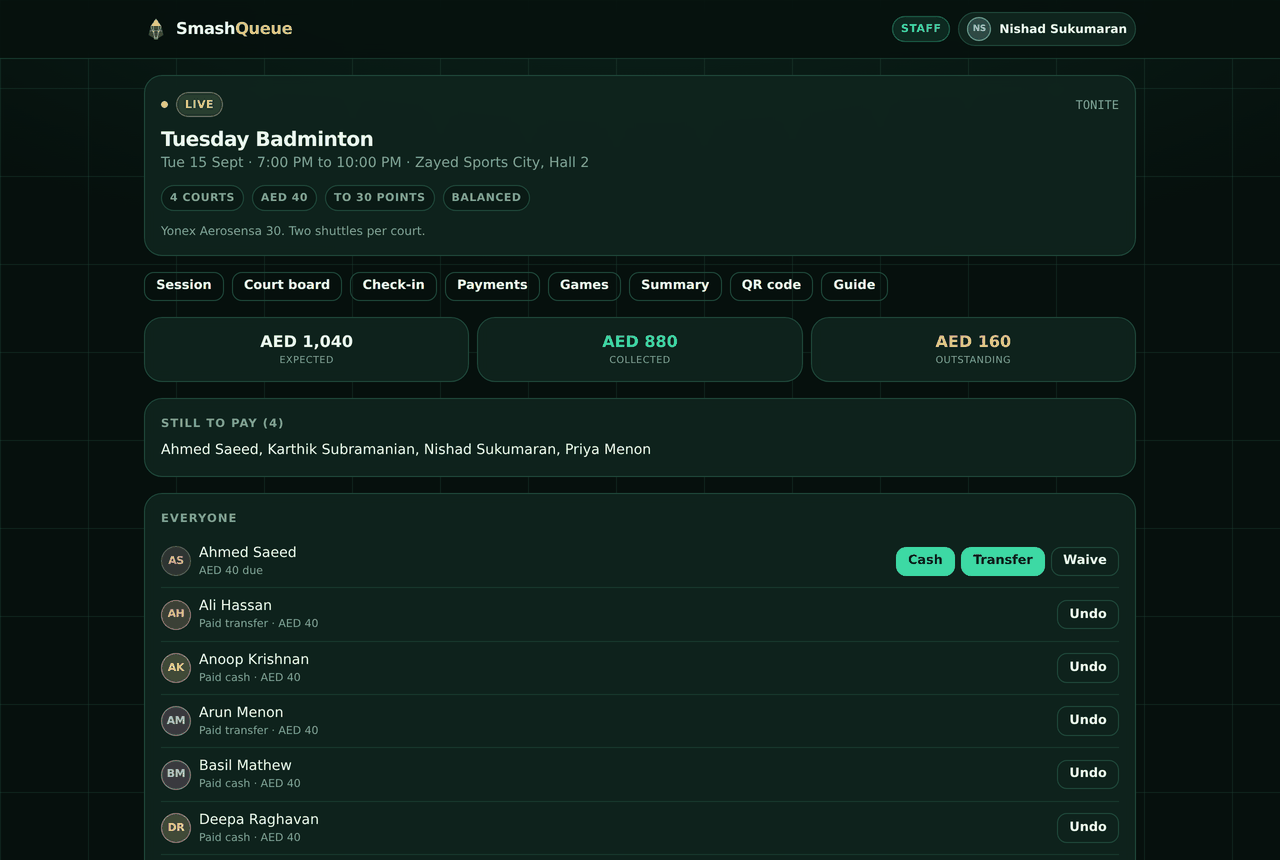
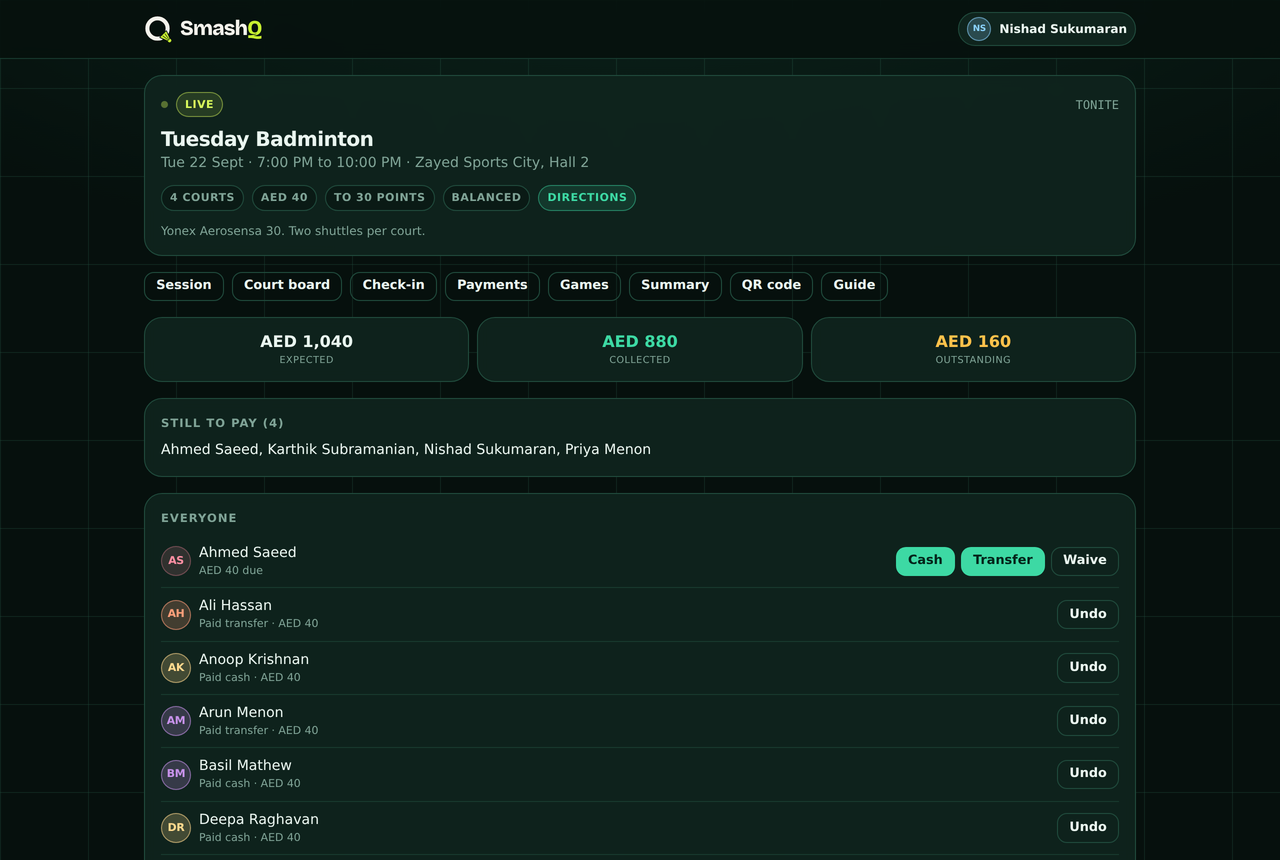
v1.1.0: README with the new brand, fresh screenshots, what's new
- New banner and social preview with the Shuttle Q logo.
- All screenshots retaken on the current app; new profile, communities
  and platform screens.
- README covers accounts, communities, notifications, short codes, PIN
  control and the brand kit. Version 1.1.0.

Claude-Session: https://claude.ai/code/session_015Ug1Y9LMyjPP6xH98pxx1T

diff --git a/src/lib/brand.ts b/src/lib/brand.ts
@@ -1,7 +1,7 @@
 /** Single source of truth for product identity, release channel and support. */
 
 export const APP_NAME = "Smash Queue";
-export const APP_VERSION = "1.0.0";
+export const APP_VERSION = "1.1.0";
 /** null on a stable release; a label like "Beta" or "RC" on a prerelease. */
 export const RELEASE_CHANNEL: string | null = null;
 

diff --git a/README.md b/README.md
@@ -1,10 +1,10 @@
 <div align="center">
 
-<img src="docs/images/banner.png" alt="Smash Queue — book, check in, queue, play" width="100%">
+<img src="docs/images/banner.png" alt="SmashQ — book, check in, queue, play" width="100%">
 
 <br>
 
-[![Version](https://img.shields.io/badge/version-1.0.0-D7F75B?style=for-the-badge&labelColor=0A1A15)](https://github.com/nishadsukumaran/smash-queue/releases)
+[![Version](https://img.shields.io/badge/version-1.1.0-C8F031?style=for-the-badge&labelColor=0A1A15)](https://github.com/nishadsukumaran/smash-queue/releases)
 [![Live](https://img.shields.io/badge/live-smashq.aiopsgroup.ai-3DD9A4?style=for-the-badge&labelColor=0A1A15)](https://smashq.aiopsgroup.ai)
 [![Tests](https://img.shields.io/badge/tests-38%20passing-3DD9A4?style=for-the-badge&labelColor=0A1A15)](#prove-it-yourself)
 [![Fairness](https://img.shields.io/badge/games%20spread-%E2%89%A4%201-D7F75B?style=for-the-badge&labelColor=0A1A15)](#the-queue-engine)
@@ -18,9 +18,10 @@
 [![Neon](https://img.shields.io/badge/Neon%20Postgres-00E599?style=flat-square&logo=postgresql&logoColor=black)](https://neon.tech)
 [![Vercel](https://img.shields.io/badge/Vercel%20fra1-000000?style=flat-square&logo=vercel&logoColor=white)](https://vercel.com)
 
-**A mobile-first badminton session manager for real WhatsApp groups.**<br>
-Fair rotation across multiple courts, QR check-in, payment tracking, and a session summary<br>
-that tells you whether the night was actually fair — not just whether it felt fair.
+**SmashQ — a mobile-first badminton app for real communities.**<br>
+Accounts for every player, communities their owners actually own, fair rotation across courts,<br>
+QR check-in, push notifications, payments, and a session summary that tells you whether<br>
+the night was actually fair — not just whether it felt fair.
 
 <sub>Built by **[AIOps](https://aiops.ae)** · support **hello@aiops.ae** · built to PRD v1.0</sub>
 
@@ -31,7 +32,7 @@ that tells you whether the night was actually fair — not just whether it felt 
 ## The problem, in one line
 
 One person with a whiteboard decides who plays next, and by 9pm half the hall thinks they
-have been skipped. Smash Queue replaces the whiteboard with a queue engine that can be
+have been skipped. SmashQ (Smash Queue) replaces the whiteboard with a queue engine that can be
 audited, and gives everyone a phone screen that answers *"when am I next?"* without asking.
 
 <table>
@@ -39,8 +40,9 @@ audited, and gives everyone a phone screen that answers *"when am I next?"* with
 <td width="33%" valign="top">
 
 ### 🏸 For players
-Tap your name, join the session, scan the QR at the door. Your phone then shows games
-played, minutes waiting, and roughly how far off your next game is.
+Sign in once with a 4-digit email code, then just a PIN. Book, scan the QR at the door, and
+your phone shows games played, minutes waiting and your place in the queue, and buzzes
+when you're up.
 
 </td>
 <td width="33%" valign="top">
@@ -52,13 +54,30 @@ line explaining why. Start. Finish. Next.
 </td>
 <td width="33%" valign="top">
 
-### 💰 For organizers
-Sessions, members, venues, fees. Expected vs collected vs outstanding, minus court hire and
-shuttles, settled before everyone leaves. Behind an account, not a PIN.
+### 💰 For owners and organizers
+Your community is yours: members, sessions, venues, fees, invitations. Expected vs collected
+vs outstanding, settled before everyone leaves. The platform can't see in or take over.
 
 </td>
 </tr>
 </table>
+
+---
+
+## New in v1.1
+
+| | |
+| :--- | :--- |
+| 🎨 **New brand** | The Shuttle Q mark and SmashQ wordmark, in the app and as a full kit in [`docs/brand`](docs/brand) |
+| 👤 **Accounts for everyone** | Any player registers with an email code; every account gets a player number (#1001 on) and a phone PIN |
+| 🏘 **Owner-run communities** | Players ask for a community, the platform approves, the requester owns it. Public or private, open, approval or invite-only |
+| 🔔 **Push notifications** | Put on court, waitlist spot, community notices, invitations, and a reminder on the day. One tap to switch on |
+| 🔑 **Short codes, safely** | 4-digit sign-in codes and 4-character invite codes, with daily and hourly guess limits behind them |
+| 🛡 **PIN control** | Owners can switch the shared coordinator PIN off; ten wrong guesses in an hour lock it |
+| 🏠 **New home screen** | Live court card, "you tonight", upcoming sessions, notices and recent fairness at a glance |
+| 🐛 **Fixes** | Live board crash, iPhone status-bar overlap in the home-screen app, honest counts for players who leave early |
+
+Full notes: [releases](https://github.com/nishadsukumaran/smash-queue/releases).
 
 ---
 
@@ -82,7 +101,7 @@ shuttles, settled before everyone leaves. Behind an account, not a PIN.
 
 <img src="docs/images/status-mobile.png" alt="Player status on a phone" width="64%">
 
-<sub>Games, wait, position. No signup, no password.</sub>
+<sub>Games, wait, position, and a buzz when you're up.</sub>
 
 </td>
 <td width="50%" valign="top" align="center">
@@ -115,16 +134,41 @@ shuttles, settled before everyone leaves. Behind an account, not a PIN.
 
 </td>
 </tr>
+<tr>
+<td width="50%" valign="top" align="center">
+
+**Your profile — every community in one place**
+
+<img src="docs/images/me-mobile.png" alt="Player profile with player number and communities" width="64%">
+
+<sub>Player number, form, per-community rating, notifications.</sub>
+
+</td>
+<td width="50%" valign="top" align="center">
+
+**Communities — find one, or join with a code**
+
+<img src="docs/images/communities-mobile.png" alt="Community directory and join-by-code" width="64%">
+
+<sub>Public communities, the 4-character code box, and "start your own".</sub>
+
+</td>
+</tr>
 </table>
 
 <details>
-<summary><b>More screens</b> — landing page and the in-app guide</summary>
+<summary><b>More screens</b> — home, platform console and the in-app guide</summary>
 <br>
 
-| Landing page | In-app user guide |
+| Home | Platform console |
 | :---: | :---: |
-| <img src="docs/images/home.png" alt="Landing page" width="100%"> | <img src="docs/images/guide.png" alt="In-app guide" width="100%"> |
-| Live session, upcoming sessions, booking state | The full guide ships inside the app at `/guide` |
+| <img src="docs/images/home.png" alt="Home screen" width="100%"> | <img src="docs/images/hq.png" alt="Platform console" width="100%"> |
+| Live court card, you tonight, upcoming, notices | Approve or start communities. Counts only, no way inside |
+
+| In-app user guide |
+| :---: |
+| <img src="docs/images/guide.png" alt="In-app guide" width="60%"> |
+| The full guide ships inside the app at `/guide` |
 
 </details>
 
@@ -189,7 +233,8 @@ npm run dev                    # http://localhost:3000
 ```
 
 `npm run setup` seeds **30 players, 6 sessions and ~160 played games**, so every screen has
-something real in it. Start at `/who` and tap a name — players never sign up or sign in.
+something real in it. The demo players have no accounts yet: tap a name at `/who` to act as
+one, or sign in at `/signin` with any address to register a new player.
 
 For the organizer screens, go to `/signin` as `organizer@example.com`. Without a
 `RESEND_API_KEY` the development build prints the code and link straight onto the page, so
@@ -207,6 +252,9 @@ pretend it sent something.
 | ⚙ Organizer | `/admin` | Sessions, members, venues, money |
 | 📖 User guide | `/guide` | The non-technical guide, in-app |
 | 🔐 Staff sign-in | `/signin` | Emails a code and a link |
+| 🏘 Communities | `/communities` | Directory, join with a code, start your own |
+| 👤 Your profile | `/me` | Player number, communities, PIN, notifications |
+| 🛰 Platform | `/hq` | Community requests and totals (demo organizer is platform admin) |
 | 🔑 **Staff PIN** | — | **`1234`** (demo seed only) |
 | ✉ **Demo organizer** | — | **`organizer@example.com`** — with no mail provider set, dev prints the code on screen |
 
@@ -298,9 +346,9 @@ Everything in PRD §31 (MVP scope):
 
 | Area | Shipped |
 | :--- | :--- |
-| **Identity** | Players: cookie per phone, no signup, no password. Staff: magic-link accounts, several sign-in addresses per person |
-| **Access** | Session PIN for the court board, accounts only for anything spanning sessions |
-| **Self sign-up** | From the session link, with a duplicate-name guard and an organizer kill switch |
+| **Accounts** | Email code or link to register, player numbers, phone PIN, several sign-in addresses per person, name lock once registered |
+| **Communities** | Many per deployment, owner-run, public or private, join policies, invitations by number, email or link, per-community ratings |
+| **Access** | Roles from membership only. Session PIN for the court board, owner can switch it off |
 | **Sessions** | Shareable code, courts, capacity, fee, notes, game type, per-session weights |
 | **Booking** | Book, cancel, capacity limit, waitlist with automatic promotion and renumbering |
 | **Check-in** | Signed QR (24h expiry, session-scoped), plus manual and walk-in |
@@ -312,12 +360,9 @@ Everything in PRD §31 (MVP scope):
 | **Stats** | Player history, personal stats, doubles Elo leaderboard |
 | **Audit** | Silent coordinator override log |
 | **Schema** | Committed migrations, with baselining for databases built before them |
+| **Notifications** | Web Push: put on court, waitlist spot, notices, invitations, day-of reminder. iPhone needs the home-screen app |
 | **Delivery** | Installable PWA, no external CDN or font dependencies |
 
-> **Notifications:** phones get a push when they're put on court, when a waitlist spot opens,
-> when their community posts a notice or invites them, and on the morning of a session they booked.
-> Android works in the browser; iPhone needs the app added to the home screen first.
->
 > **Deliberately Phase 2:** WhatsApp, online payments, tournament mode, recurring sessions.
 
 ---
@@ -418,14 +463,17 @@ is the same failure the duplicate-name guard exists to stop.
 
 ```
 src/
-├── db/            schema.ts (18 tables, Drizzle) · migrate.ts · seed.ts
+├── db/            schema.ts (26 tables, Drizzle) · migrate.ts · seed.ts
 │                  bootstrap.ts · grant-admin.ts
 ├── lib/
 │   ├── queue-engine.ts   the matchmaking engine — pure, no I/O
 │   ├── fairness.ts       fairness score + doubles Elo with margin multiplier
 │   ├── sim.ts            in-memory session simulator
 │   ├── qr.ts             HMAC-signed check-in tokens
-│   ├── auth.ts           magic links, one-time codes, sessions
+│   ├── auth.ts           magic links, one-time codes, sessions, phone PINs
+│   ├── tenant.ts         which community you're in, from memberships only
+│   ├── push.ts           Web Push, sent after the response
+│   ├── rate.ts           guess limits for short codes
 │   ├── mail.ts           the one outbound email
 │   ├── identity.ts       cookie identity + staff PIN
 │   ├── safe-next.ts      redirect allow-list
@@ -437,7 +485,8 @@ src/
 │   └── auth-actions.ts   sign in, sign out — kept apart to stay auditable
 ├── components/    shared UI
 ├── drizzle/       committed migrations
-└── app/           19 routes
+├── fonts/         the wordmark face (Bricolage Grotesque, OFL)
+└── app/           29 routes
 ```
 
 | Layer | Choice | Why |
@@ -448,7 +497,7 @@ src/
 | Data | **Drizzle ORM** → **Neon Postgres** | HTTP driver — no connection pool to exhaust from serverless |
 | Hosting | **Vercel**, region `fra1` | Co-located with the Neon Frankfurt primary |
 | Auth | **Magic link + 4-digit code**, Resend | No passwords to store, leak or reset. The code exists because mail apps open links in their own browser |
-| Realtime | Polling, 5–6 s | Honest about what it is; push is Phase 2 |
+| Realtime | Polling, 5–6 s, plus **Web Push** (VAPID) | The board polls; the moments that matter reach the phone in the pocket |
 
 Every mutation is a server action posted from a plain `<form>`, so the app keeps working on a
 phone with one bar of signal in a sports hall.
@@ -478,7 +527,7 @@ The non-technical guide for players and coordinators: **[`docs/USER-GUIDE.md`](d
 
 ---
 
-## What v1.0.0 means, and what it doesn't
+## Known limits
 
 Feature-complete against PRD §31, tested, and running in production. What it has not done yet
 is thirty people on a Saturday night with patchy venue wifi — so expect the queue weights to
@@ -507,6 +556,16 @@ coordinator PIN**. Every phone unlocked with it loses the board on its next load
 coordinators sign in with their own accounts instead.
 
 Found something wrong, or want a weight changed? **hello@aiops.ae**
+
+---
+
+## Brand
+
+The **Shuttle Q** mark — a Q whose tail is a shuttlecock — with the SmashQ wordmark in
+Bricolage Grotesque. Mark variants, app icon, outlined lockups, colours and usage rules live in
+[`docs/brand`](docs/brand).
+
+<p align="center"><img src="docs/brand/smashq-lockup-dark.png" alt="SmashQ lockup" width="420"></p>
 
 ---
 
@@ -540,7 +599,7 @@ regression even if every test passes.
 
 <div align="center">
 
-<sub>**Smash Queue** is built and maintained by **[AIOps](https://aiops.ae)** — vendor-independent
+<sub>**SmashQ** is built and maintained by **[AIOps](https://aiops.ae)** — vendor-independent
 forward deployed engineering for the GCC.<br>
 Copyright &copy; 2026 Nishad Sukumaran (AIOps) · Licensed under [Apache 2.0](LICENSE)</sub>
 

diff --git a/docs/USER-GUIDE.md b/docs/USER-GUIDE.md
@@ -2,7 +2,7 @@
 
 **Book. Check in. Queue. Play.**
 
-**Live at [smashq.aiopsgroup.ai](https://smashq.aiopsgroup.ai)** &middot; `v1.0.0`
+**Live at [smashq.aiopsgroup.ai](https://smashq.aiopsgroup.ai)** &middot; `v1.1.0`
 &middot; built by [AIOps](https://aiops.ae) &middot; something wrong? **hello@aiops.ae**
 
 One badminton group, one link. Players book from WhatsApp, scan a QR at the door, and
